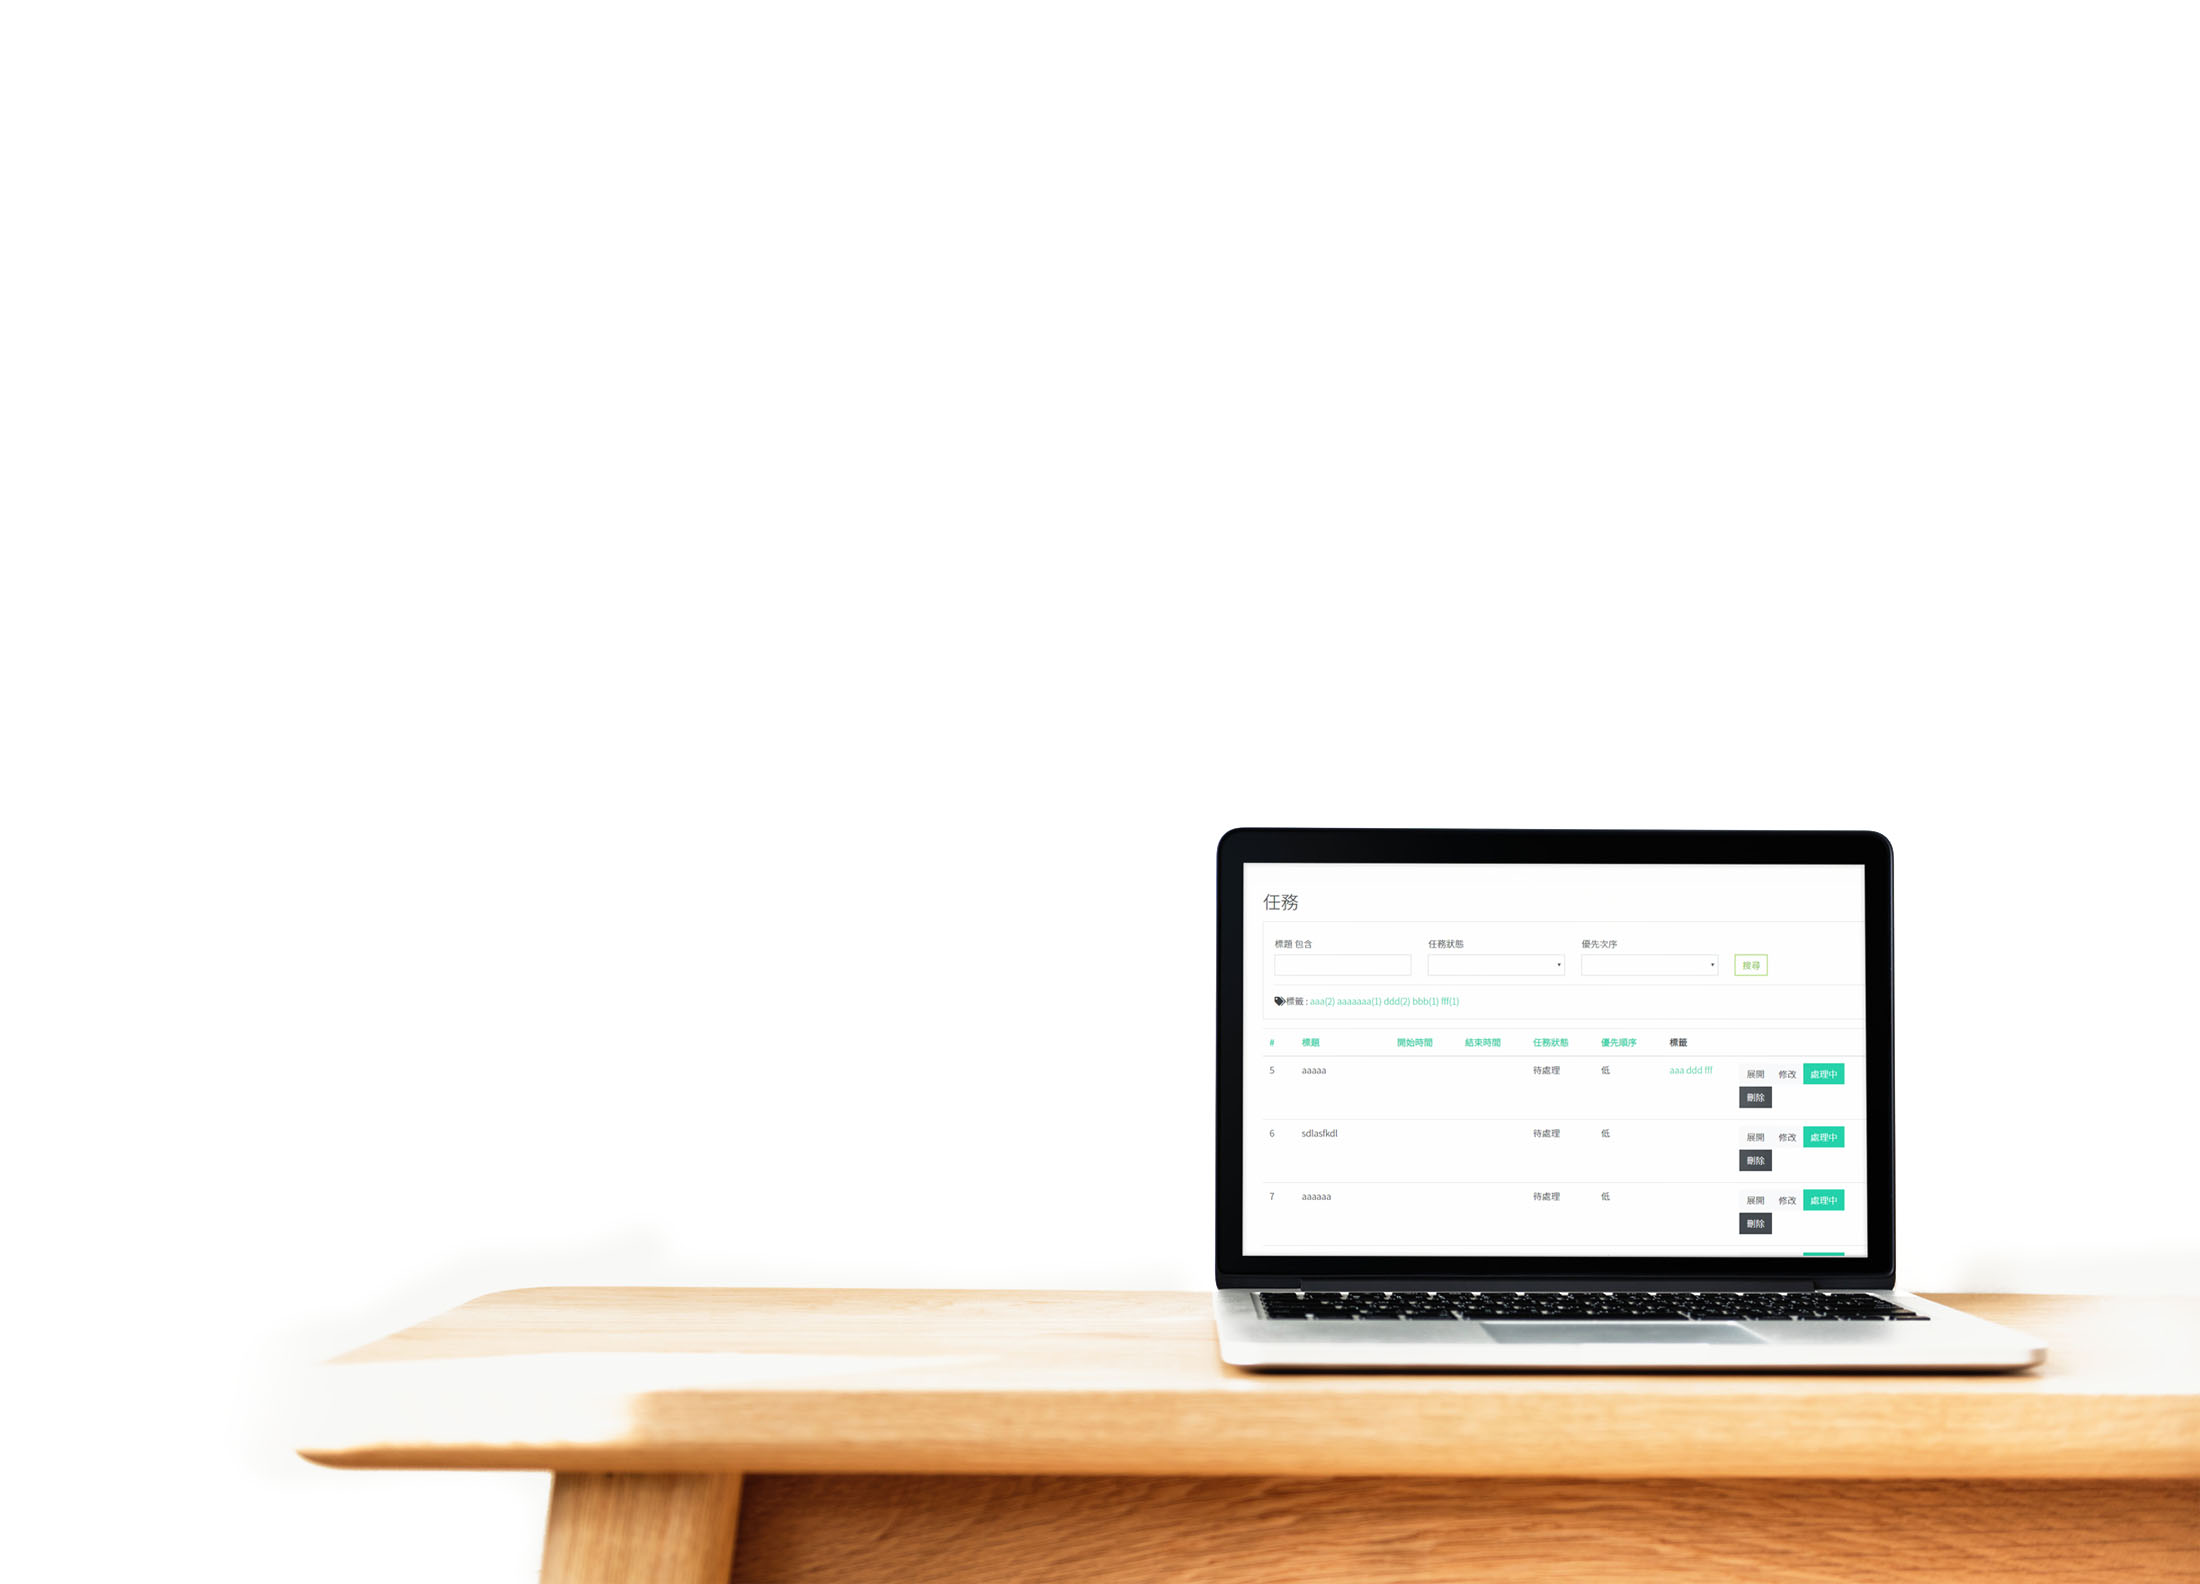
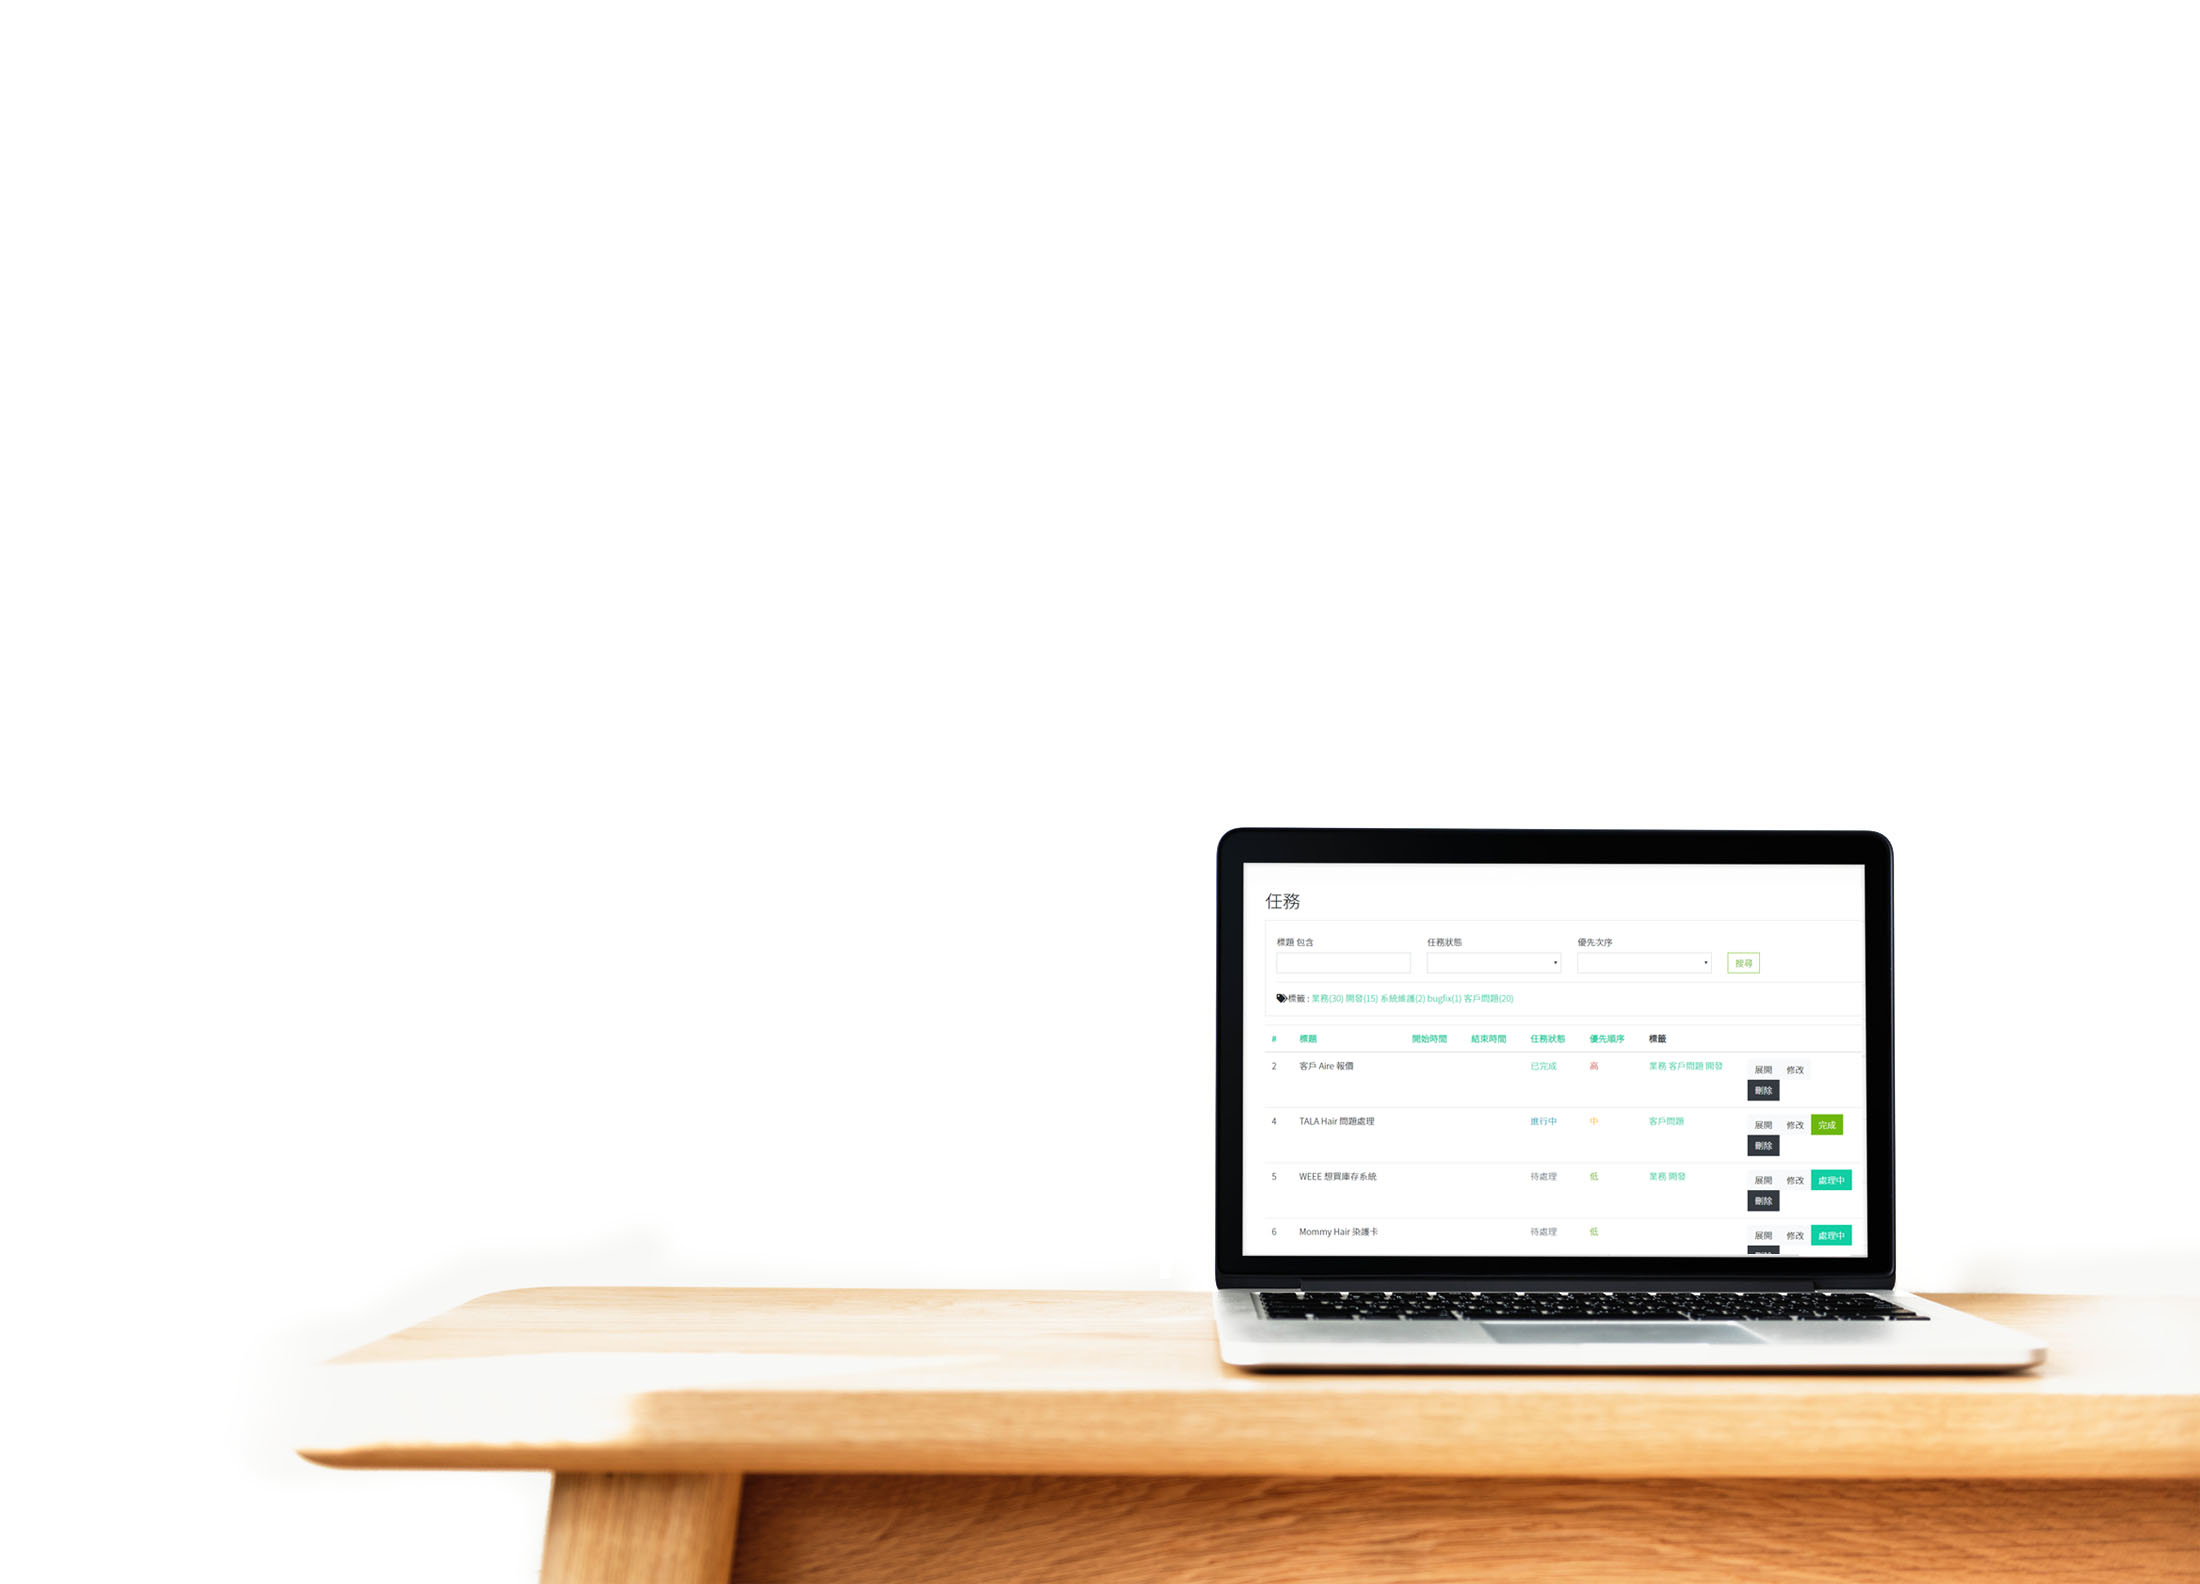
view fix

Changed region(s): [[0.5873, 0.6187, 0.8655, 0.8043], [0.7727, 0.5878, 0.8036, 0.6187]]

diff --git a/app/models/task.rb b/app/models/task.rb
@@ -45,6 +45,58 @@ class Task < ApplicationRecord
   def self.tagged_with(tagname)
     self.joins(:tags).where("tags.tagname" => tagname)
   end
+  
+  def status_name
+    case self.status
+      when "pending"
+        return I18n.t("task.pending")
+      when "in_progress"
+        return I18n.t("task.in_progress")
+      when "finished"
+        return I18n.t("task.finished")
+      else
+        return ""
+    end
+  end  
+  
+  def status_color
+    case self.status
+      when "pending"
+        return "text-secondary"
+      when "in_progress"
+        return "text-info"
+      when "finished"
+        return "text-primary"
+      else
+        return ""
+    end
+  end
+  
+  def priority_name
+    case self.priority
+      when 0
+        return I18n.t("task.priority_0")
+      when 1
+        return I18n.t("task.priority_1")
+      when 2
+        return I18n.t("task.priority_2")
+      else
+        return ""
+    end    
+  end  
+  
+  def priority_color
+    case self.priority
+      when 0
+        return "text-success"
+      when 1
+        return "text-warning"
+      when 2
+        return "text-danger"
+      else
+        return ""
+    end
+  end
 
   private
   def generate_id

diff --git a/app/helpers/tasks_helper.rb b/app/helpers/tasks_helper.rb
@@ -1,34 +1,9 @@
 module TasksHelper
-  def status_text(status)
-    case status
-      when "pending"
-        return t("task.pending")
-      when "in_progress"
-        return t("task.in_progress")
-      when "finished"
-        return t("task.finished")
-      else
-        return ""
-    end
-  end
-  
-  def priority_text(priority)
-    case priority
-      when 0
-        return t("task.priority_0")
-      when 1
-        return t("task.priority_1")
-      when 2
-        return t("task.priority_2")
-      else
-        return ""
-    end    
-  end
   
   def status_options
-     id = Task.aasm.states.map &:name
-     name = id.map {|e| I18n.t("task."+e.to_s) }
-     return name.zip(id).to_h
+    id = Task.aasm.states.map &:name
+    name = id.map {|e| I18n.t("task."+e.to_s) }
+    return name.zip(id).to_h
   end  
   
   def priority_options
